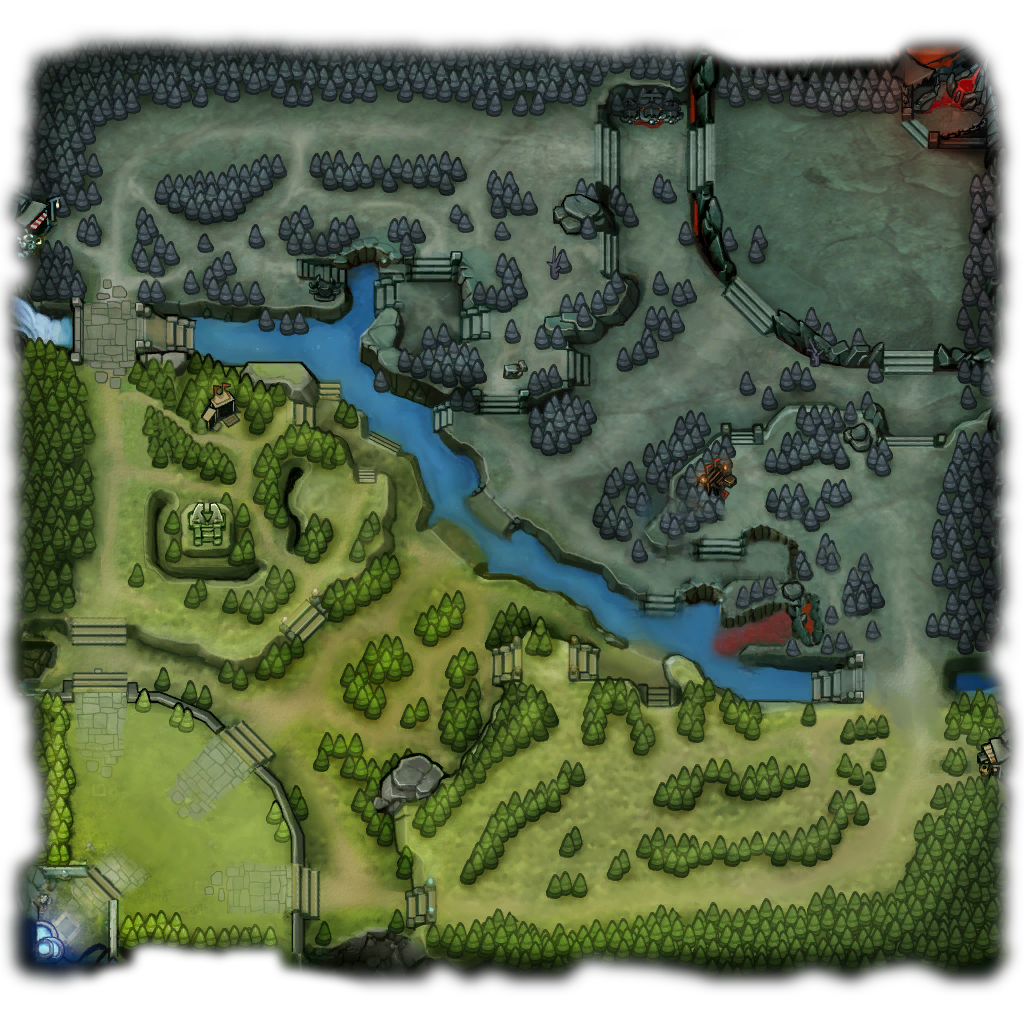
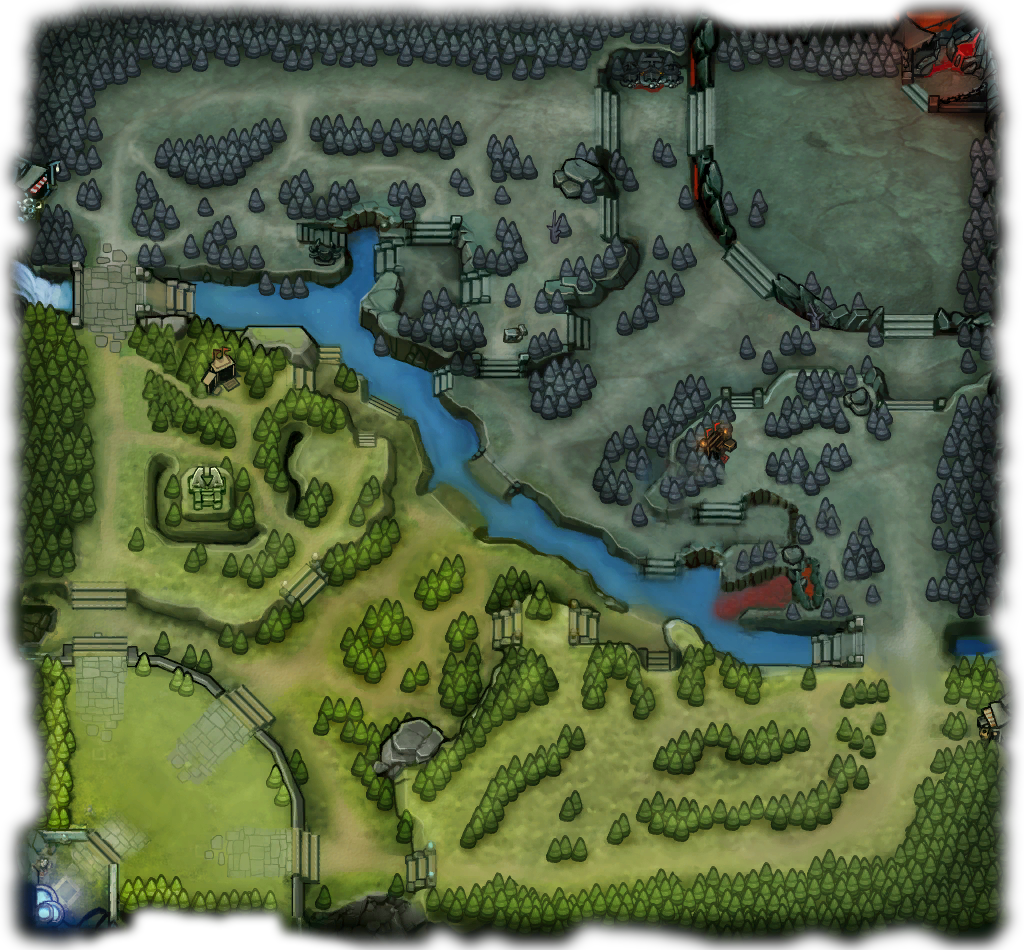
Change image aspect ratio for better borders

diff --git a/src/js/components/MapContent.js b/src/js/components/MapContent.js
@@ -58,7 +58,7 @@ export default class MapContent extends Component {
         <div className='side-container left col-1-6'>
           {leftControls}
         </div>
-        <div className='pixi-container col-4-6-square'>
+        <div className='pixi-container col-4-6'>
           <img className='minimap' src='./images/minimap683-transparent.png' alt='minimap 6.83'/>
         </div>
         <div className='side-container right col-1-6'>

diff --git a/src/styles/map-content.css b/src/styles/map-content.css
@@ -9,7 +9,7 @@
 }
 
 .pixi-container {
-  height: 700px;
+  height: 640px;
 }
 
 img.minimap {
